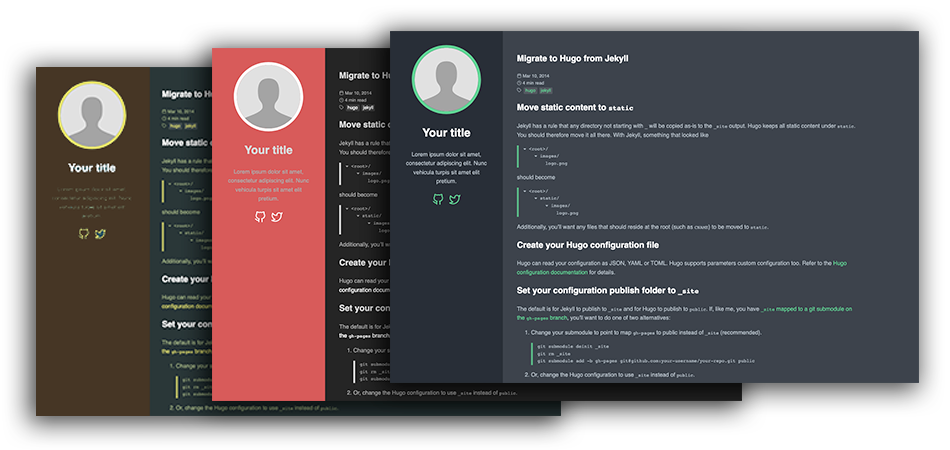
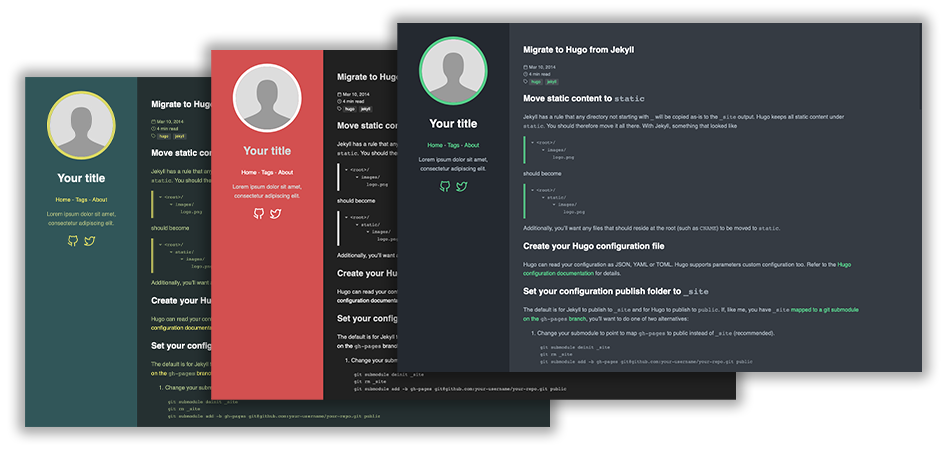
Update compile + theme

Changed region(s): [[0.0, 0.0311, 0.9768, 0.9644]]

diff --git a/themes/m10c/layouts/_default/baseof.html b/themes/m10c/layouts/_default/baseof.html
@@ -2,13 +2,17 @@
 <html lang="{{ .Site.LanguageCode | default "en-us" }}">
   <head>
     <title>{{ if .IsHome }}{{ .Site.Title }}{{ else }}{{ .Title }} // {{ .Site.Title }}{{ end }}</title>
+    <link rel="shortcut icon" href="{{ .Site.Params.favicon | default "/favicon.ico" }}" />
     <meta charset="utf-8" />
     {{ hugo.Generator }}
     <meta name="viewport" content="width=device-width, initial-scale=1" />
     <meta name="author" content="{{ .Site.Params.author | default "John Doe" }}" />
     <meta name="description" content="{{ if .IsHome }}{{ .Site.Params.description }}{{ else }}{{ .Description }}{{ end }}" />
     {{ $style := resources.Get "css/main.scss" | resources.ExecuteAsTemplate "css/main.scss" . | resources.ToCSS | resources.Minify | resources.Fingerprint -}}
-    <link rel="stylesheet" href="{{ $style.Permalink }}" />
+    <link rel="stylesheet" href="{{ $style.RelPermalink }}" />
+    {{ with .OutputFormats.Get "rss" -}}
+    {{ printf `<link rel=%q type=%q href=%q title=%q>` .Rel .MediaType.Type .Permalink site.Title | safeHTML }}
+    {{ end }}
 
     {{ template "_internal/google_analytics.html" . }}
     {{ template "_internal/twitter_cards.html" . }}
@@ -18,13 +22,27 @@
   <body>
     <header class="app-header">
       <a href="{{ .Site.BaseURL }}"><img class="app-header-avatar" src="{{ .Site.Params.avatar | default "avatar.jpg" | relURL }}" alt="{{ .Site.Params.author | default "John Doe" }}" /></a>
-      <h1>{{ .Site.Title }}</h1>
+      <span class="app-header-title">{{ .Site.Title }}</span>
+      {{- with .Site.Menus.main }}
+      <nav class="app-header-menu">
+        {{- range $key, $item := . }}
+          {{- if ne $key 0 }}
+            {{ $.Site.Params.menu_item_separator | default " - " | safeHTML }}
+          {{ end }}
+          <a class="app-header-menu-item" href="{{ $item.URL }}">{{ $item.Name }}</a>
+        {{- end }}
+      </nav>
+      {{- end }}
       <p>{{ .Site.Params.description | default "Lorem ipsum dolor sit amet, consectetur adipiscing elit. Nunc vehicula turpis sit amet elit pretium." }}</p>
+      {{- with .Site.Params.social }}
       <div class="app-header-social">
-        {{ range .Site.Params.social }}
-          <a target="_blank" href="{{ .url }}">{{ partial "icon.html" (dict "ctx" $ "name" .name ) }}</a>
+        {{ range . }}
+          <a href="{{ .url }}" target="_blank" rel="noreferrer noopener me">
+            {{ partial "icon.html" (dict "ctx" $ "name" .icon "title" .name) }}
+          </a>
         {{ end }}
       </div>
+      {{- end }}
     </header>
     <main class="app-container">
       {{ block "main" . }}

diff --git a/themes/m10c/layouts/partials/icon.html b/themes/m10c/layouts/partials/icon.html
@@ -1,12 +1,11 @@
 {{- if isset .ctx.Site.Data.m10c.icons .name -}}
-<svg xmlns="http://www.w3.org/2000/svg" width="24" height="24" viewBox="0 0 24 24" fill="none" stroke="currentColor" stroke-width="2" stroke-linecap="round" stroke-linejoin="round" class="icon icon-{{ .name }}">
-  <title>{{ .name }}</title>
+<svg viewBox="0 0 24 24" fill="none" stroke="currentColor" stroke-width="2" stroke-linecap="round" stroke-linejoin="round" class="icon icon-{{ .name }}">
+  <title>{{ .title | default .name }}</title>
   {{ safeHTML (index .ctx.Site.Data.m10c.icons .name) }}
 </svg>
 {{- else -}}
-<svg xmlns="http://www.w3.org/2000/svg" width="24" height="24" viewBox="0 0 24 24" fill="none" stroke="currentColor" stroke-width="2" stroke-linecap="round" stroke-linejoin="round" class="icon icon-link">
+<svg viewBox="0 0 24 24" fill="none" stroke="currentColor" stroke-width="2" stroke-linecap="round" stroke-linejoin="round" class="icon icon-link">
   <path d="M10 13a5 5 0 0 0 7.54.54l3-3a5 5 0 0 0-7.07-7.07l-1.72 1.71"></path>
   <path d="M14 11a5 5 0 0 0-7.54-.54l-3 3a5 5 0 0 0 7.07 7.07l1.71-1.71"></path>
 </svg>
 {{- end -}}
-

diff --git a/themes/m10c/layouts/_default/single.html b/themes/m10c/layouts/_default/single.html
@@ -2,6 +2,7 @@
   <article class="post">
     <header class="post-header">
       <h1 class ="post-title">{{ .Title }}</h1>
+      {{- if ne .Type "page" }}
       <div class="post-meta">
         <div>
           {{ partial "icon.html" (dict "ctx" $ "name" "calendar") }}
@@ -11,17 +12,18 @@
           {{ partial "icon.html" (dict "ctx" $ "name" "clock") }}
           {{ .ReadingTime }} min read
         </div>
-        {{- with .Params.tags -}}
+        {{- with .Params.tags }}
         <div>
           {{ partial "icon.html" (dict "ctx" $ "name" "tag") }}
-          {{ range . -}}
-            {{- with $.Site.GetPage (printf "/%s/%s" "tags" . ) -}}
+          {{- range . -}}
+            {{ with $.Site.GetPage (printf "/%s/%s" "tags" . ) }}
               <a class="tag" href="{{ .Permalink }}">{{ .Title }}</a>
-            {{- end -}}
-          {{- end -}}
+            {{- end }}
+          {{- end }}
         </div>
-        {{- end -}}
+        {{- end }}
       </div>
+      {{- end }}
     </header>
     <div class="post-content">
       {{ .Content }}

diff --git a/themes/m10c/layouts/_default/list.html b/themes/m10c/layouts/_default/list.html
@@ -2,15 +2,15 @@
   <article>
     <h1>{{ .Title }}</h1>
     <ul class="posts-list">
-      {{ range $index, $element := .Paginator.Pages }}
+      {{ range where .Paginator.Pages "Type" "!=" "page" }}
         <li class="posts-list-item">
           <a class="posts-list-item-title" href="{{ .Permalink }}">{{ .Title }}</a>
-          <div class="post-content">
-              <p>{{ .Summary | plainify | safeHTML }} {{ if .Truncated }} … {{ end }}</p>
-            </div>
           <span class="posts-list-item-description">
-            {{ partial "icon.html" (dict "ctx" $ "name" "clock") }} {{ .ReadingTime }} min read -
+            {{ partial "icon.html" (dict "ctx" $ "name" "calendar") }}
             {{ .PublishDate.Format "Jan 2, 2006" }}
+            <span class="posts-list-item-separator">-</span>
+            {{ partial "icon.html" (dict "ctx" $ "name" "clock") }}
+            {{ .ReadingTime }} min read
           </span>
         </li>
       {{ end }}

diff --git a/themes/m10c/assets/css/components/_post.scss b/themes/m10c/assets/css/components/_post.scss
@@ -2,13 +2,43 @@
   color: $lightest-color;
 }
 
-.post-content {
-  pre {
-    border-left: 0.4em solid rgba($primary-color, .8);
-    padding-left: 1em;
+.post-meta > div {
+  display: flex;
+  align-items: center;
+  flex-wrap: wrap;
+  gap: 0.2em;
+  font-size: 0.8em;
+
+  > .icon {
+    margin-right: 0.4em;
   }
 }
 
-.post-meta {
-  font-size: 0.8em;
+.post-content {
+  & > pre,
+  .highlight {
+    margin: 1em 0;
+  }
+
+  & > pre,
+  .highlight > pre,
+  .highlight > div {
+    border-left: 0.4em solid rgba($primary-color, .8);
+    padding: 1em 1em;
+  }
+
+  blockquote {
+    border-left: 0.4em solid rgba($primary-color, .8);
+    margin: 1em 0em;
+    padding: .5em 1em;
+    background: $darkest-color;
+
+    p {
+      margin: .5em 0;
+    }
+  }
+
+  img {
+    max-width: 100%;
+  }
 }

diff --git a/themes/m10c/layouts/_default/terms.html b/themes/m10c/layouts/_default/terms.html
@@ -1,16 +1,16 @@
 {{ define "main" }}
   <article>
     <h1>{{ .Title }}</h1>
-    <ul class="posts-list">
-      {{ range .Data.Terms.Alphabetical }}
-        <li class="posts-list-item">
-            <a class="posts-list-item-title" href="{{ .Page.Permalink }}">
+    <ul class="tags-list">
+      {{ range .Data.Terms.ByCount }}
+        <li class="tags-list-item">
+            {{ partial "icon.html" (dict "ctx" $ "name" "tag") }}
+            <a class="tags-list-item-title" href="{{ .Page.Permalink }}">
+              ({{ .Count }})
               {{ .Page.Title }}
-            </a> 
-            {{ .Count }}
+            </a>
         </li>
       {{ end }}
     </ul>
-    {{ partial "pagination.html" $ }}
   </article>
 {{ end }}

diff --git a/themes/m10c/assets/css/_base.scss b/themes/m10c/assets/css/_base.scss
@@ -35,16 +35,26 @@ code {
   font-family: monospace,monospace;
   font-size: 1em;
   color: rgba($light-color, .8);
+
+  // Fixes iOS font sizing anomaly
+  text-size-adjust: 100%;
+  -ms-text-size-adjust: 100%;
+  -moz-text-size-adjust: 100%;
+  -webkit-text-size-adjust: 100%;
 }
 
 pre {
+  font-size: 1rem;
+  line-height: 1.2em;
+  margin: 0;
+  overflow: auto;
+
   // A larger monospaced block of text (that isn't mixed with normal text)
   // generally looks heavier than normal text with the same font size. For this
   // reason using a smaller monospaced font size makes sense in this situation.
   code {
     font-size: .8em;
   }
-  overflow: auto;
 }
 
 ::selection {

diff --git a/themes/m10c/assets/css/components/_app.scss b/themes/m10c/assets/css/components/_app.scss
@@ -5,8 +5,8 @@
 }
 
 .app-header-avatar {
-  max-width: 15rem;
-  max-height: 15rem;
+  width: 15rem;
+  height: 15rem;
   border-radius: 100%;
   border: 0.5rem solid $primary-color;
 }
@@ -16,12 +16,23 @@
 }
 
 .app-header-social {
+  display: flex;
+  align-items: center;
+  justify-content: center;
   font-size: 2em;
   color: $lightest-color;
 
-  a {
-    margin: 0 0.1em;
+  a:not(:last-child) {
+    margin-right: 0.4em;
   }
+}
+
+.app-header-title {
+  color: $lightest-color;
+  display: block;
+  font-size: 2em;
+  margin: 0.67em 0;
+  font-weight: bold;
 }
 
 @media (min-width: 940px) {

diff --git a/themes/m10c/assets/css/components/_posts_list.scss b/themes/m10c/assets/css/components/_posts_list.scss
@@ -4,14 +4,23 @@
 
 .posts-list-item {
   list-style: none;
+  padding: 0.4em 0;
+
   &:not(:last-child) {
     border-bottom: 1px dashed rgba(255, 255, 255, 0.3);
   }
-  padding: 0.4em 0;
 }
 
 .posts-list-item-description {
-  display: block;
+  display: flex;
+  align-items: center;
   font-size: 0.8em;
+
+  > .icon {
+    margin-right: 0.4em;
+  }
 }
 
+.posts-list-item-separator {
+  margin: 0 0.4em;
+}

diff --git a/themes/m10c/assets/css/main.scss b/themes/m10c/assets/css/main.scss
@@ -13,6 +13,7 @@ $primary-color: {{ .Site.Params.style.primaryColor | default "#57cc8a" }};
 @import 'components/post';
 @import 'components/posts_list';
 @import 'components/tag';
+@import 'components/tags_list';
 
 // The last 'extra' import can optionally be overridden on a per project
 // basis by creating a <HUGO_PROJECT>/assets/css/_extra.scss file.

diff --git a/themes/m10c/assets/css/components/_pagination.scss b/themes/m10c/assets/css/components/_pagination.scss
@@ -10,8 +10,11 @@
 .page-item {
   display: inline-block;
   .page-link {
-    display: block;
-    padding: 0.285em 0.8em;
+    display: flex;
+    align-items: center;
+    justify-content:center;
+    width: 1.8rem;
+    height: 1.8rem;
   }
 
   &.active {

diff --git a/themes/m10c/assets/css/components/_icon.scss b/themes/m10c/assets/css/components/_icon.scss
@@ -1,6 +1,6 @@
 .icon {
-  display: block-inline;
+  display: inline-block;
   width: 1em;
   height: 1em;
-  vertical-align: -0.125em;
+  margin-top: -0.125em;
 }
